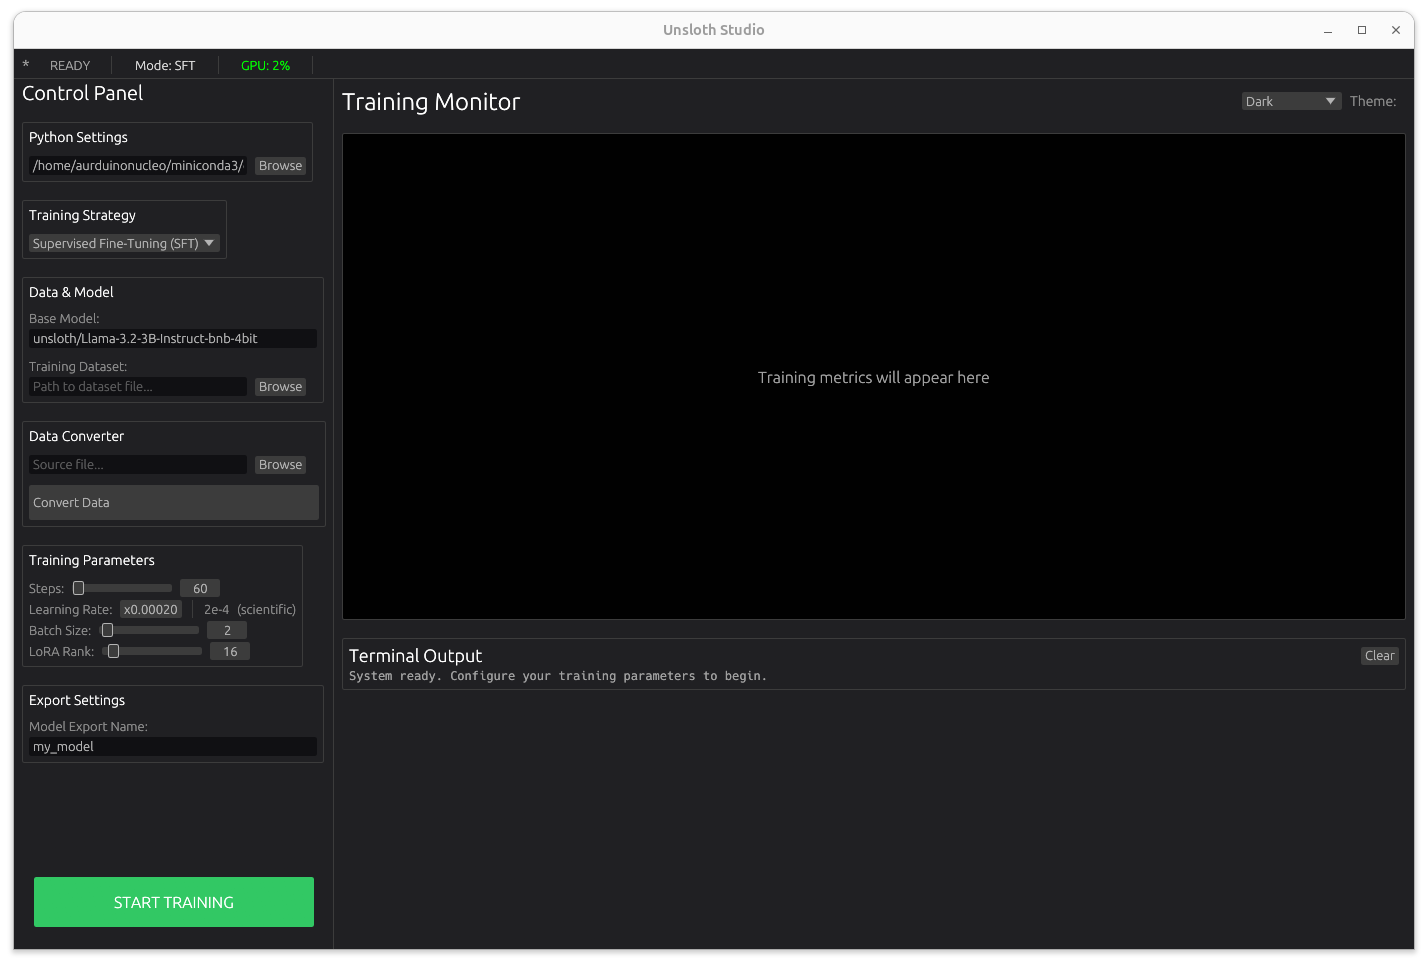
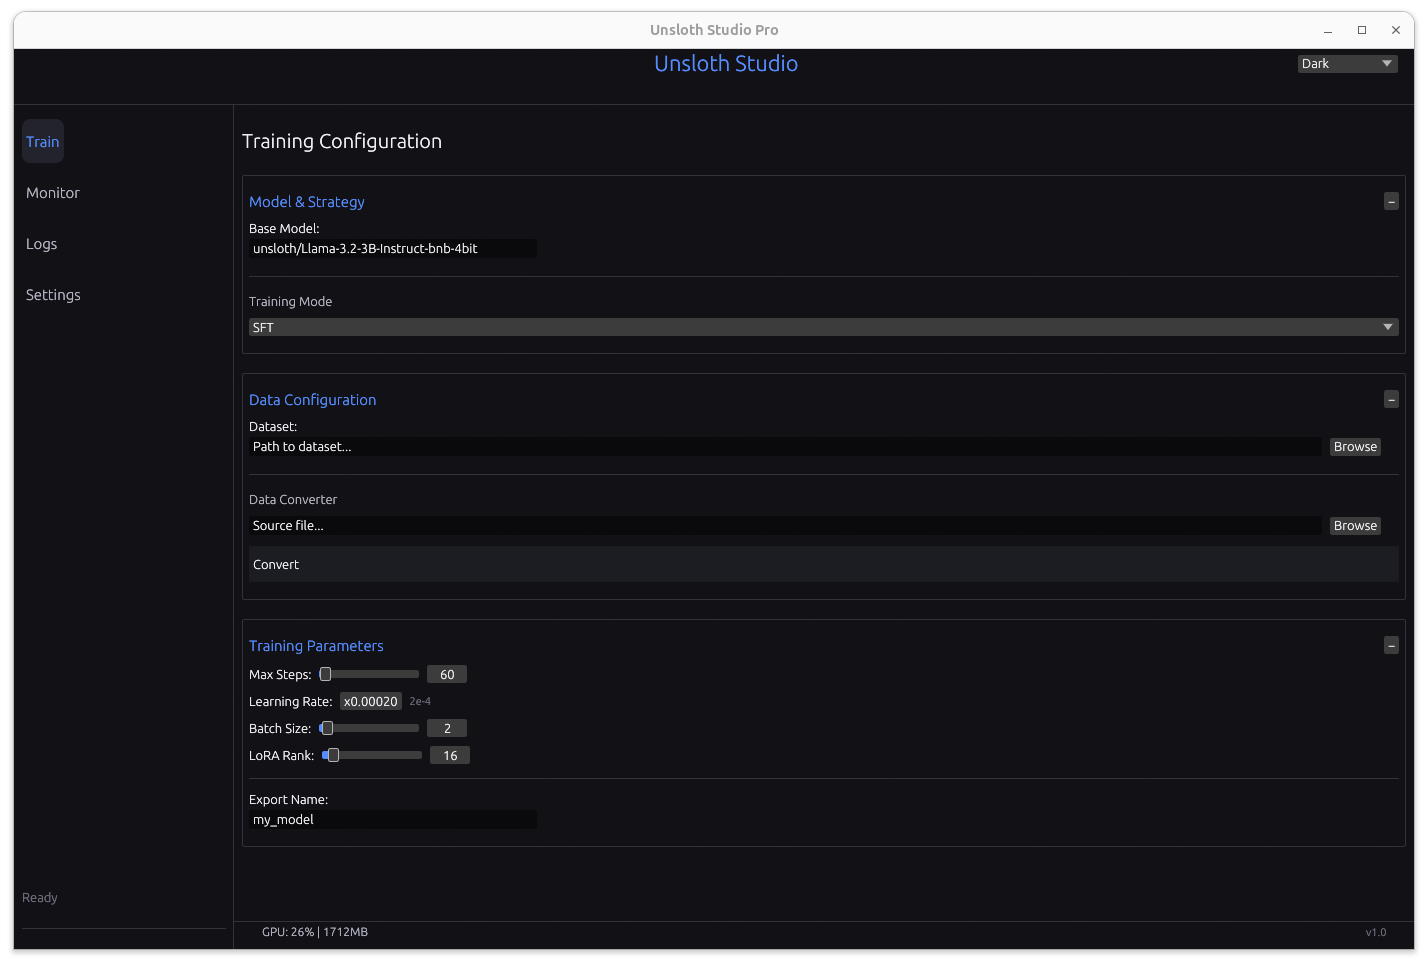
Massive UI Overhaul: Added Themes, Live GPU Metrics, and Cyberpunk Screenshot

diff --git a/README.md b/README.md
@@ -114,7 +114,7 @@ cd Unsloth-Studio
 xhost +local:root
 
 # Build and run the container
-docker-compose up --build
+docker compose up --build
 ```
 
 **Data Persistence:**
